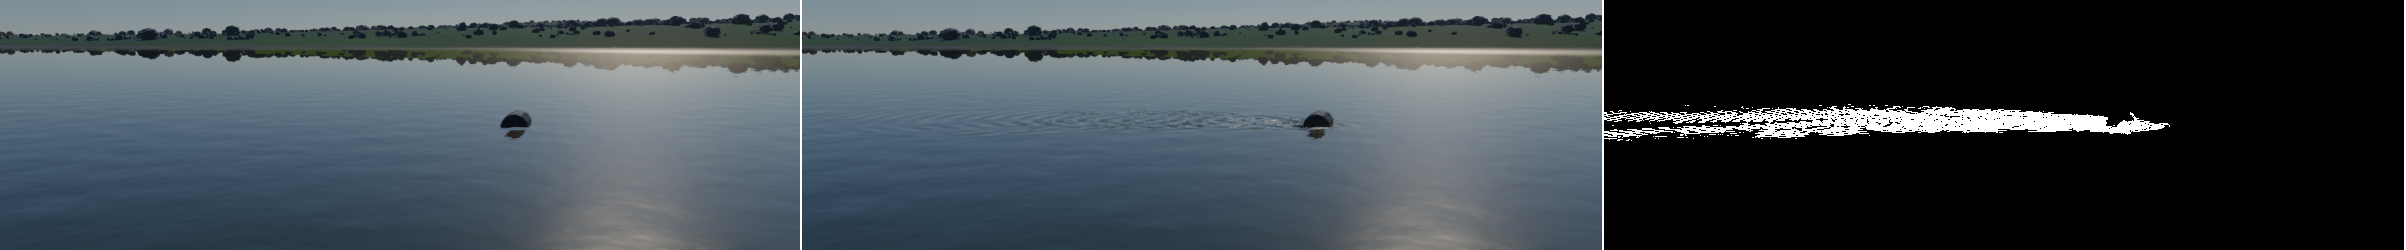
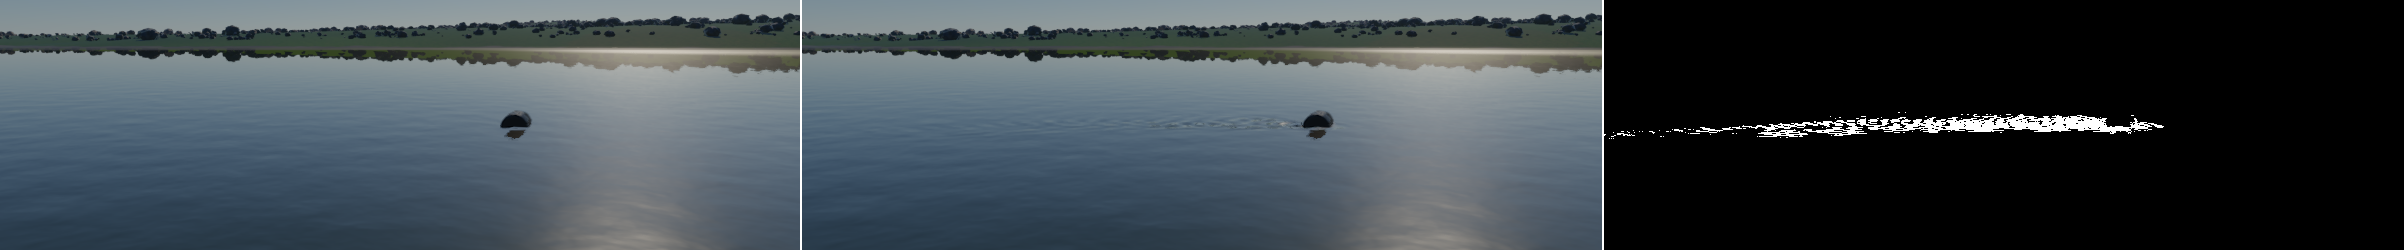
Fade the wakes before their Nyquist limit (#107)
The wakes' waves are half a metre long, and the field that carries them has no mips. They
faded out where a pixel spans 10 to 40 cm, which left half their height at the Nyquist limit
(a pixel spanning half a wave) and a quarter at 30 cm: moving crests there can only shimmer.
They now fade from 6 cm and are gone at 25 cm. From the steep view of the towed barrel nothing
changes (0 px); from 2 m over the water its far wake fades sooner where the view grazes the
water (reports/2026-10-02-107/towed-low.png retaken: 4 080 px, FLIP mean 0.0005).

The capture batch is unchanged; validate.sh is clean.

Changed region(s): [[0.6546, 0.42, 0.904, 0.56], [0.5299, 0.476, 0.5611, 0.532]]

diff --git a/docs/demos/island.md b/docs/demos/island.md
@@ -1889,8 +1889,10 @@ follow a flow. So the lakes and the sea get the wave particles of `docs/research
     (cells of 12.5 cm, whole micrometres added atomically, so a frame's field is the same
     whatever order the particles come in). `wakes/slopes` turns it into slopes.
 - **The water's shading** adds those slopes to the sea's and the lakes' (`wake_slope` in
-  `water.slang`), fading out over the field's last tenth and where a pixel spans more than
-  10–40 cm (the field has no mips; there its waves would only shimmer).
+  `water.slang`), fading out over the field's last tenth, and where a pixel spans 6 to 25 cm:
+  gone at half the waves' length, their Nyquist limit, past which the moving crests would
+  only shimmer (the field has no mips). Faded from 10 to 40 cm at first, half their height was
+  left at the limit and a quarter at 30 cm.
 - **The towed barrel**: the last of the `--movers` barrels goes round a circle of 20 m on the
   largest lake at 2.5 m/s (its middle found as the mask's sample farthest from the shore). The
   log gives a view of it at frame 300, its wake grown (`2168.0,36.90,-1234.0,-102.9,-36.2`).
@@ -1901,8 +1903,8 @@ changed):
 - `towed.png`: the towed barrel from its logged view. Crests ring its bow and trail 15 m behind
   it along its curve, the sun's glint broken on them; 35 138 pixels differ, ꟻLIP mean 0.0070,
   max 0.99 where a crest catches the sun.
-- `towed-low.png`: the same 2 m over the water from 16 m: fine lines of ripples in its wake;
-  9 987 pixels, ꟻLIP mean 0.0012.
+- `towed-low.png`: the same 2 m over the water from 16 m: fine lines of ripples in its wake,
+  fading out behind it where the view grazes the water; 4 080 pixels, ꟻLIP mean 0.0005.
 - The barrels carried slowly through the lakes leave faint rings.
 
 ![The towed barrel's wake from above: without the wakes, with them, and the pixels that changed](../../reports/2026-10-02-107/towed.png)

diff --git a/reports/2026-10-02-107/README.md b/reports/2026-10-02-107/README.md
@@ -35,8 +35,9 @@ field around the camera whose slopes the water adds. Frame 300 with the fixed st
   that changed. Crests ring its bow and trail 15 m behind it along its curve; 35 138 pixels,
   ꟻLIP mean 0.0070, max 0.99 where a crest catches the sun.
 - `towed-low.png`: the same from 2 m over the water and 16 m away
-  (`2163.1,30.9,-1235.1,-102.9,-7`): fine lines of ripples in its wake; 9 987 pixels, ꟻLIP mean
-  0.0012.
+  (`2163.1,30.9,-1235.1,-102.9,-7`): fine lines of ripples in its wake, fading out where the view
+  grazes the water (the wakes fade before their Nyquist limit since a later commit); 4 080
+  pixels, ꟻLIP mean 0.0005.
 
 **Cost** (2560 × 1440, two rounds): the frame 0.08 ms more (3.60–3.62 → 3.68–3.70 ms from the
 towed barrel); on the compute queue `wakes/advance` 0.08–0.11 ms, `wakes/emit` 0.014–0.018,
